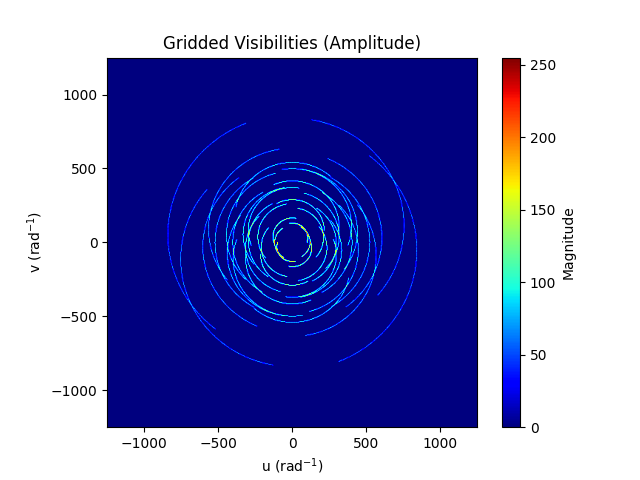
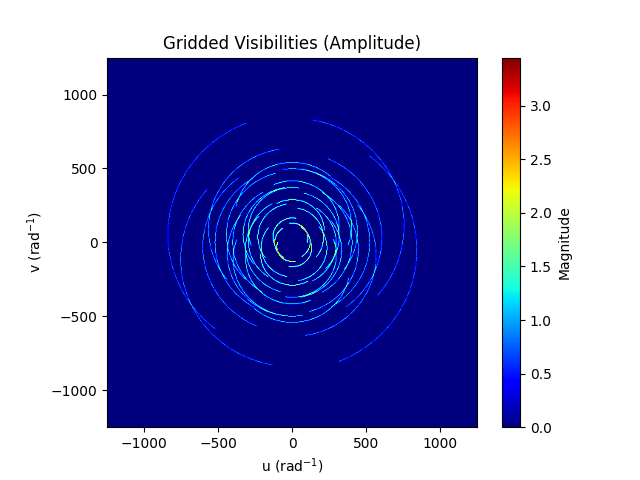
update input

diff --git a/assignment2/PartB/simvis.py b/assignment2/PartB/simvis.py
@@ -9,7 +9,7 @@ import numpy.linalg as la
 import pandas as pd
 
 from read import read_config, read_enu_coords, read_sky_model_df, read_img_config, input_dir
-from utils import to_deg, scale, log_scale
+from utils import to_deg, scale, log_scale, deg_to_rad, to_rad
 
 
 @dataclass

diff --git a/assignment2/PartB/utils.py b/assignment2/PartB/utils.py
@@ -27,4 +27,4 @@ def scale(x, max_val=255):
 
 def log_scale(x):
     log_abs = np.log(np.abs(x) + 1)
-    return scale(log_abs)
+    return log_abs
